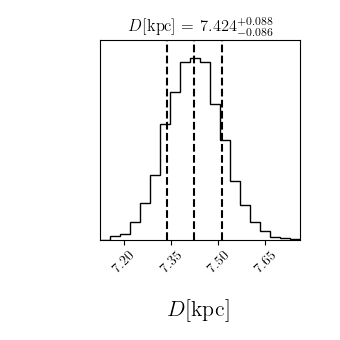
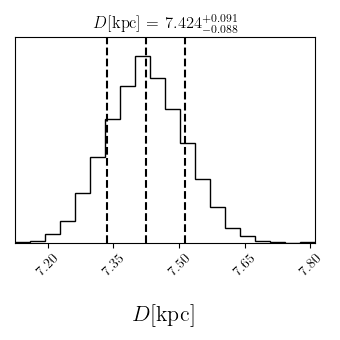
update distance images

diff --git a/code/analysis.py b/code/analysis.py
@@ -240,6 +240,7 @@ def plx_dist(file_path):
     # Plot the posterior distribution:
     fig = corner.corner(flat_samples, labels=[r"$D \rm [kpc]$"], quantiles=[0.16, 0.5, 0.84], show_titles=True,
                         title_fmt=".3f", title_kwargs={"fontsize":12}, label_kwargs={"fontsize": 16})
+    fig.tight_layout()
     plt.savefig(f'{save_dir}{clus_name}.png')
     plt.close()
 
